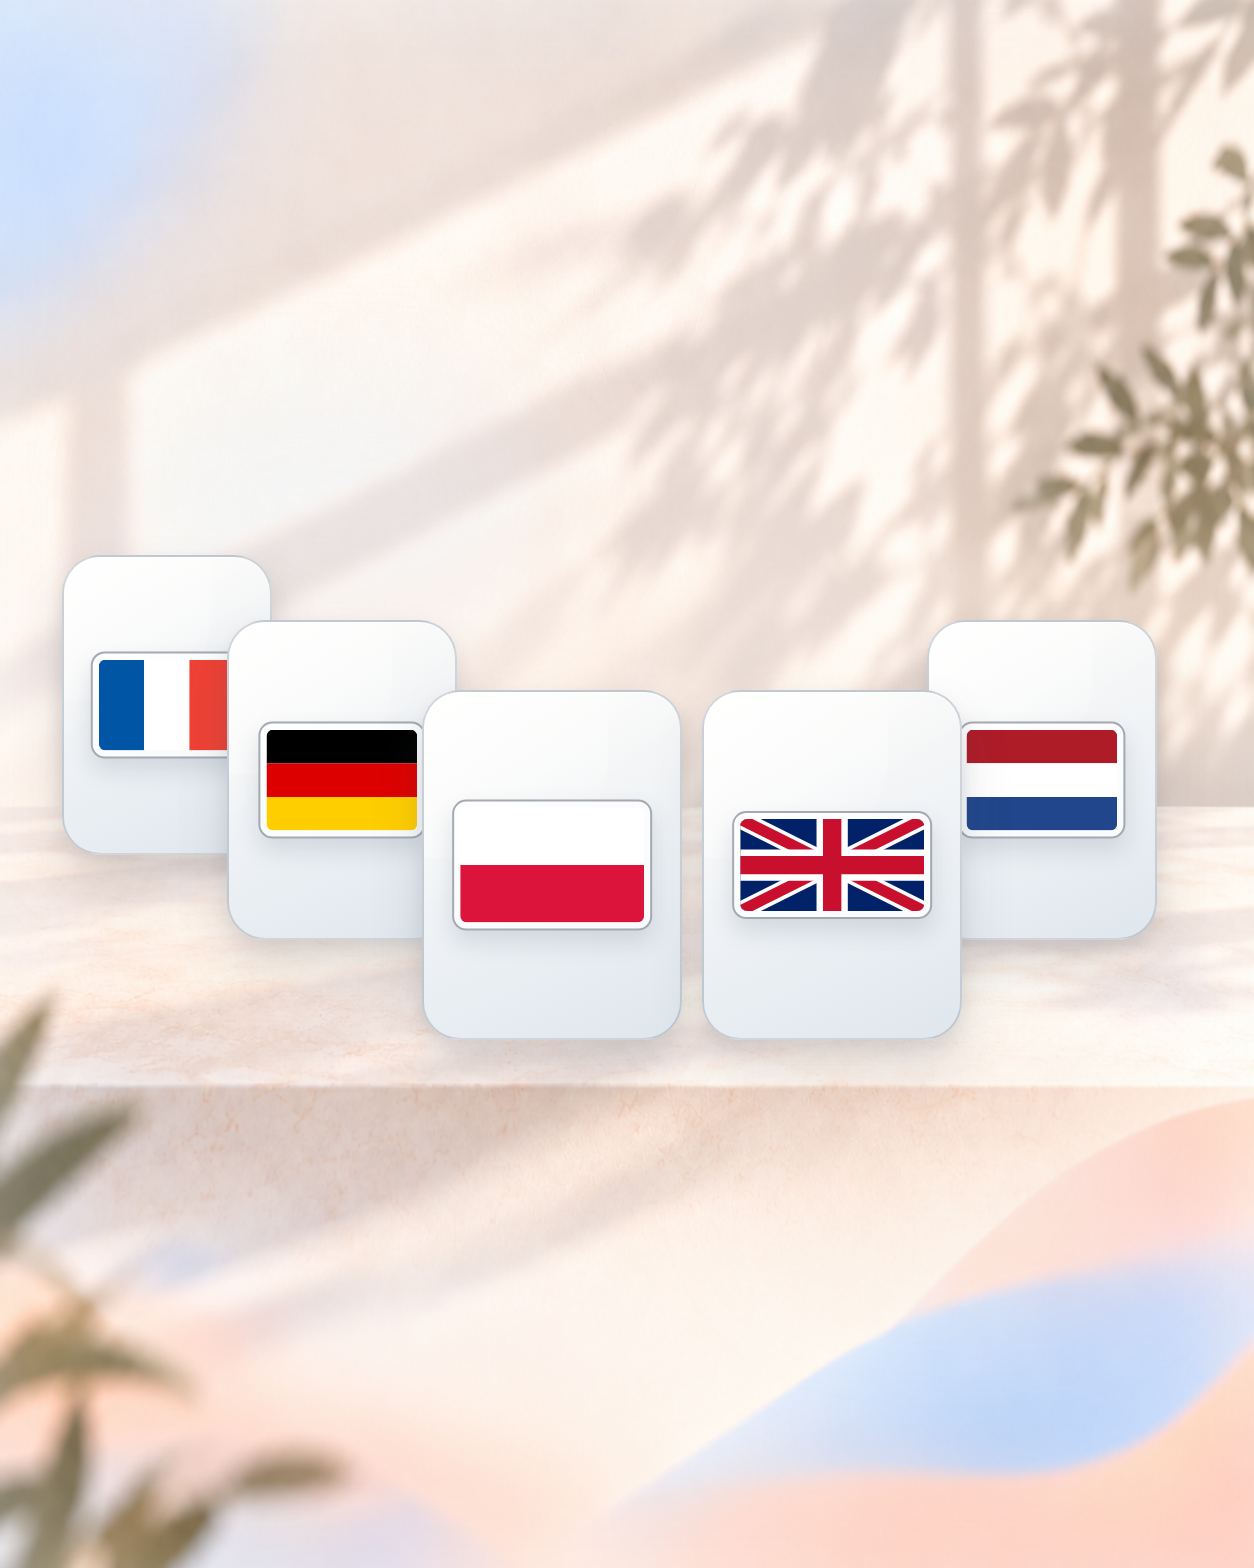
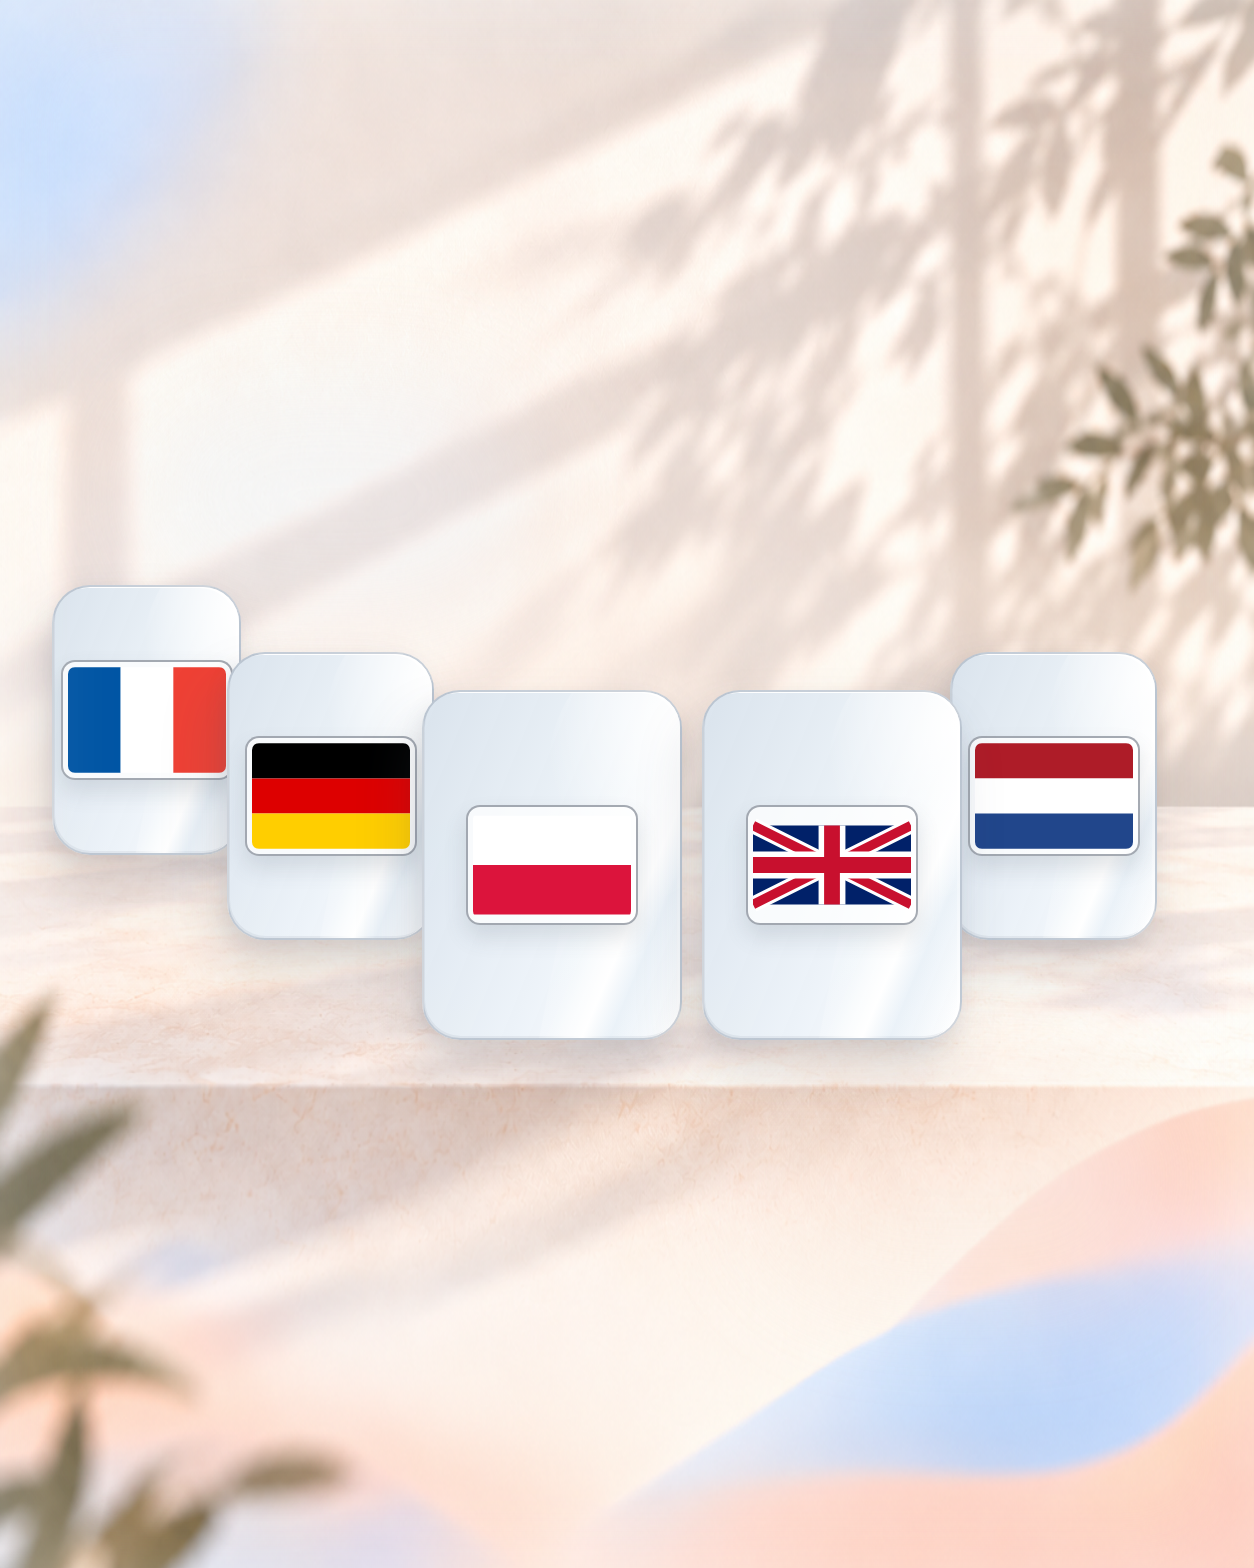
Polish Telegram notification cards

diff --git a/Design2.0/version-001-mvp/tg-notification/source/row.css b/Design2.0/version-001-mvp/tg-notification/source/row.css
@@ -61,20 +61,20 @@ body {
 
 .country {
   position: absolute;
-  width: 230px;
-  height: 320px;
+  width: 207px;
+  height: 288px;
 }
 
 .country-fr {
-  top: 390px;
-  left: 20px;
+  top: 420px;
+  left: 10px;
   z-index: 1;
-  width: 210px;
-  height: 300px;
+  width: 189px;
+  height: 270px;
 }
 
 .country-de {
-  top: 455px;
+  top: 487px;
   left: 185px;
   z-index: 2;
 }
@@ -91,8 +91,8 @@ body {
 .country-gb { left: 660px; }
 
 .country-nl {
-  top: 455px;
-  left: 885px;
+  top: 487px;
+  left: 908px;
   z-index: 2;
 }
 
@@ -104,22 +104,41 @@ body {
   border: 2px solid rgba(124, 136, 151, 0.34);
   border-radius: 38px;
   background:
-    linear-gradient(145deg, rgba(255, 255, 255, 0.72), rgba(255, 255, 255, 0) 43%),
+    linear-gradient(112deg, rgba(216, 226, 236, 0.94) 0%, rgba(238, 244, 249, 0.97) 59%, #ffffff 100%),
     linear-gradient(155deg, #fffdf9 0%, #edf1f5 58%, #dfe6ed 100%);
   box-shadow:
-    0 30px 52px rgba(78, 91, 108, 0.16),
-    0 9px 18px rgba(78, 91, 108, 0.10),
-    inset 0 1px 0 rgba(255, 255, 255, 0.95);
+    -12px 32px 55px rgba(78, 91, 108, 0.17),
+    -4px 10px 20px rgba(78, 91, 108, 0.10),
+    inset -3px 1px 0 rgba(255, 255, 255, 0.96),
+    inset 1px -2px 0 rgba(136, 148, 162, 0.12);
 }
 
 .card::before {
   position: absolute;
-  top: 0;
-  left: 0;
-  width: 72%;
-  height: 48%;
-  border-radius: 36px 0 60% 0;
-  background: linear-gradient(145deg, rgba(255, 255, 255, 0.68), transparent);
+  top: -18%;
+  right: -24%;
+  width: 66%;
+  height: 138%;
+  background: linear-gradient(
+    103deg,
+    transparent 17%,
+    rgba(255, 255, 255, 0.20) 35%,
+    rgba(255, 255, 255, 0.98) 49%,
+    rgba(205, 223, 239, 0.30) 59%,
+    transparent 80%
+  );
+  transform: skewX(-11deg);
+  content: "";
+}
+
+.card::after {
+  position: absolute;
+  top: -11%;
+  right: -18%;
+  width: 70%;
+  height: 72%;
+  border-radius: 50%;
+  background: radial-gradient(ellipse at 72% 28%, #ffffff 0%, rgba(255, 255, 255, 0.46) 38%, transparent 72%);
   content: "";
 }
 
@@ -127,8 +146,10 @@ body {
   position: absolute;
   top: 50%;
   left: 50%;
-  width: 74%;
-  padding: 6px;
+  z-index: 2;
+  width: 172px;
+  height: 120px;
+  padding: 5px;
   border: 2px solid rgba(91, 101, 115, 0.55);
   border-radius: 14px;
   background: rgba(255, 255, 255, 0.74);
@@ -136,14 +157,12 @@ body {
   transform: translate(-50%, -50%);
 }
 
-.country-pl .flag,
-.country-gb .flag { width: 78%; }
-
 .flag img {
   display: block;
   width: 100%;
-  height: auto;
+  height: 100%;
   border-radius: 7px;
+  object-fit: fill;
 }
 
 @media print {

diff --git a/Design2.0/version-001-mvp/tg-notification/README.md b/Design2.0/version-001-mvp/tg-notification/README.md
@@ -18,10 +18,12 @@
 - `tg-notification-01-row.png` — единая вертикальная композиция в порядке
   `FR → DE → PL → GB → NL`.
 
-Все карточки стоят вертикально и имеют светлый фон. Флаги отделены тонкой серой
-рамкой. Польша и Великобритания немного крупнее остальных, но уменьшены
-относительно предыдущей итерации и не перекрывают друг друга. Перекрытие каждой
-другой пары не превышает 20% площади меньшей карточки.
+Все карточки стоят вертикально и имеют светлый глянцевый фон с бликом от правого
+источника света. Флаги приведены к одинаковому визуальному размеру и отделены
+тонкой серой рамкой. Польша и Великобритания не перекрывают друг друга. Германия,
+Нидерланды и Франция уменьшены на 10% при сохранении прежних нижних граней;
+Франция дополнительно сдвинута влево. Перекрытие каждой другой пары не превышает
+20% площади меньшей карточки.
 
 Финальное изображение имеет размер 1254×1568 px, цветовой режим sRGB и
 использует палитру Design 2.0: `#fbf7f2`, `#fffdf9`, `#f5dfd2`, `#dcecff`.
